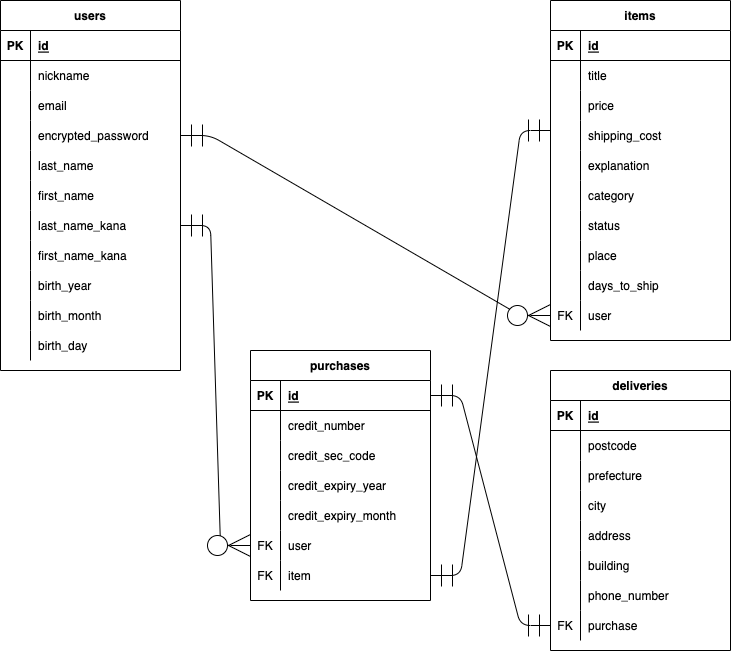
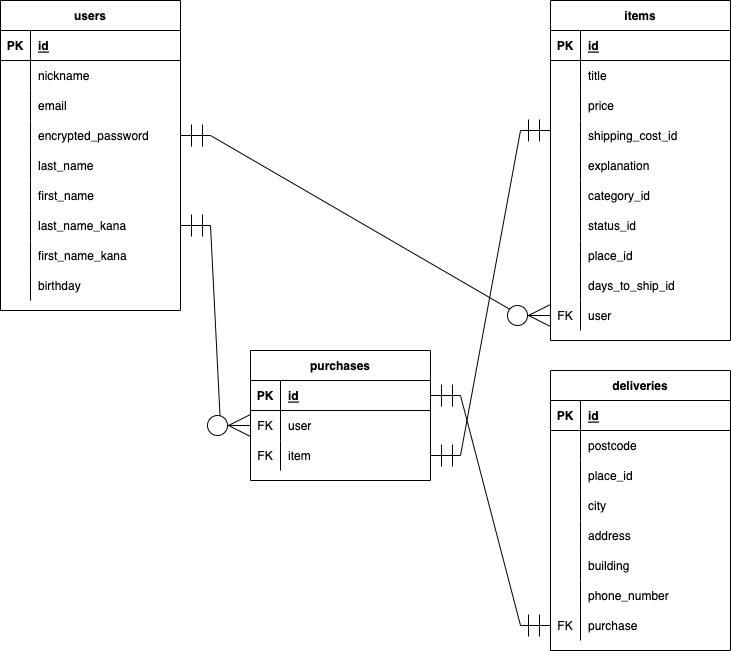
データベースの修正

diff --git a/README.md b/README.md
@@ -3,18 +3,16 @@
 
 ## usersテーブル
 
-| Column             | Type    | Options     |
-| ------------------ | ------- | ----------- |
-| nickname           | string  | null: false |
-| email              | string  | null: false |
-| encrypted_password | string  | null: false |
-| last_name          | string  | null: false |
-| first_name         | string  | null: false |
-| last_name_kana     | string  | null: false |
-| first_name_kana    | string  | null: false |
-| birth_year         | integer | null: false |
-| birth_month        | integer | null: false |
-| birth_day          | integer | null: false |
+| Column             | Type    | Options                   |
+| ------------------ | ------- | ------------------------- |
+| nickname           | string  | null: false               |
+| email              | string  | null: false, unique: true |
+| encrypted_password | string  | null: false               |
+| last_name          | string  | null: false               |
+| first_name         | string  | null: false               |
+| last_name_kana     | string  | null: false               |
+| first_name_kana    | string  | null: false               |
+| birthday           | date    | null: false               |
 
 ### Association
 - has_many :items
@@ -23,16 +21,16 @@
 
 ## itemsテーブル
 
-| Column        | Type       | Options                        |
-| ------------- | ---------- | ------------------------------ |
-| title         | string     | null: false                    |
-| price         | integer    | null: false                    |
-| shipping_cost | string     | null: false                    |
-| explanation   | text       | null: false                    |
-| category      | text       | null: false                    |
-| status        | text       | null: false                    |
-| place         | text       | null: false                    |
-| days_to_ship  | text       | null: false                    |
+| Column           | Type    | Options                        |
+| ---------------- | ------- | ------------------------------ |
+| title            | string  | null: false                    |
+| price            | integer | null: false                    |
+| shipping_cost_id | integer | null: false                    |
+| explanation      | text    | null: false                    |
+| category_id      | integer | null: false                    |
+| status_id        | integer | null: false                    |
+| place_id         | integer | null: false                    |
+| days_to_ship_id  | integer | null: false                    |
 | user          | references | null: false, foreign_key: true |
 
 ### Association
@@ -44,10 +42,6 @@
 
 | Column              | Type       | Options                        |
 | ------------------- | ---------- | ------------------------------ |
-| credit_number       | integer    | null: false                    |
-| credit_sec_code     | integer    | null: false                    |
-| credit_expiry_year  | integer    | null: false                    |
-| credit_expiry_month | integer    | null: false                    |
 | user                | references | null: false, foreign_key: true |
 | item                | references | null: false, foreign_key: true |
 
@@ -61,11 +55,11 @@
 | Column       | Type       | Options                        |
 | ------------ | ---------- | ------------------------------ |
 | postcode     | string     | null: false                    |
-| prefecture   | string     | null: false                    |
+| place_id     | integer    | null: false                    |
 | city         | string     | null: false                    |
 | address      | string     | null: false                    |
 | building     | string     |                                |
-| phone_number | integer    | null: false                    |
+| phone_number | string     | null: false                    |
 | purchase     | references | null: false, foreign_key: true |
 
 ### Association
